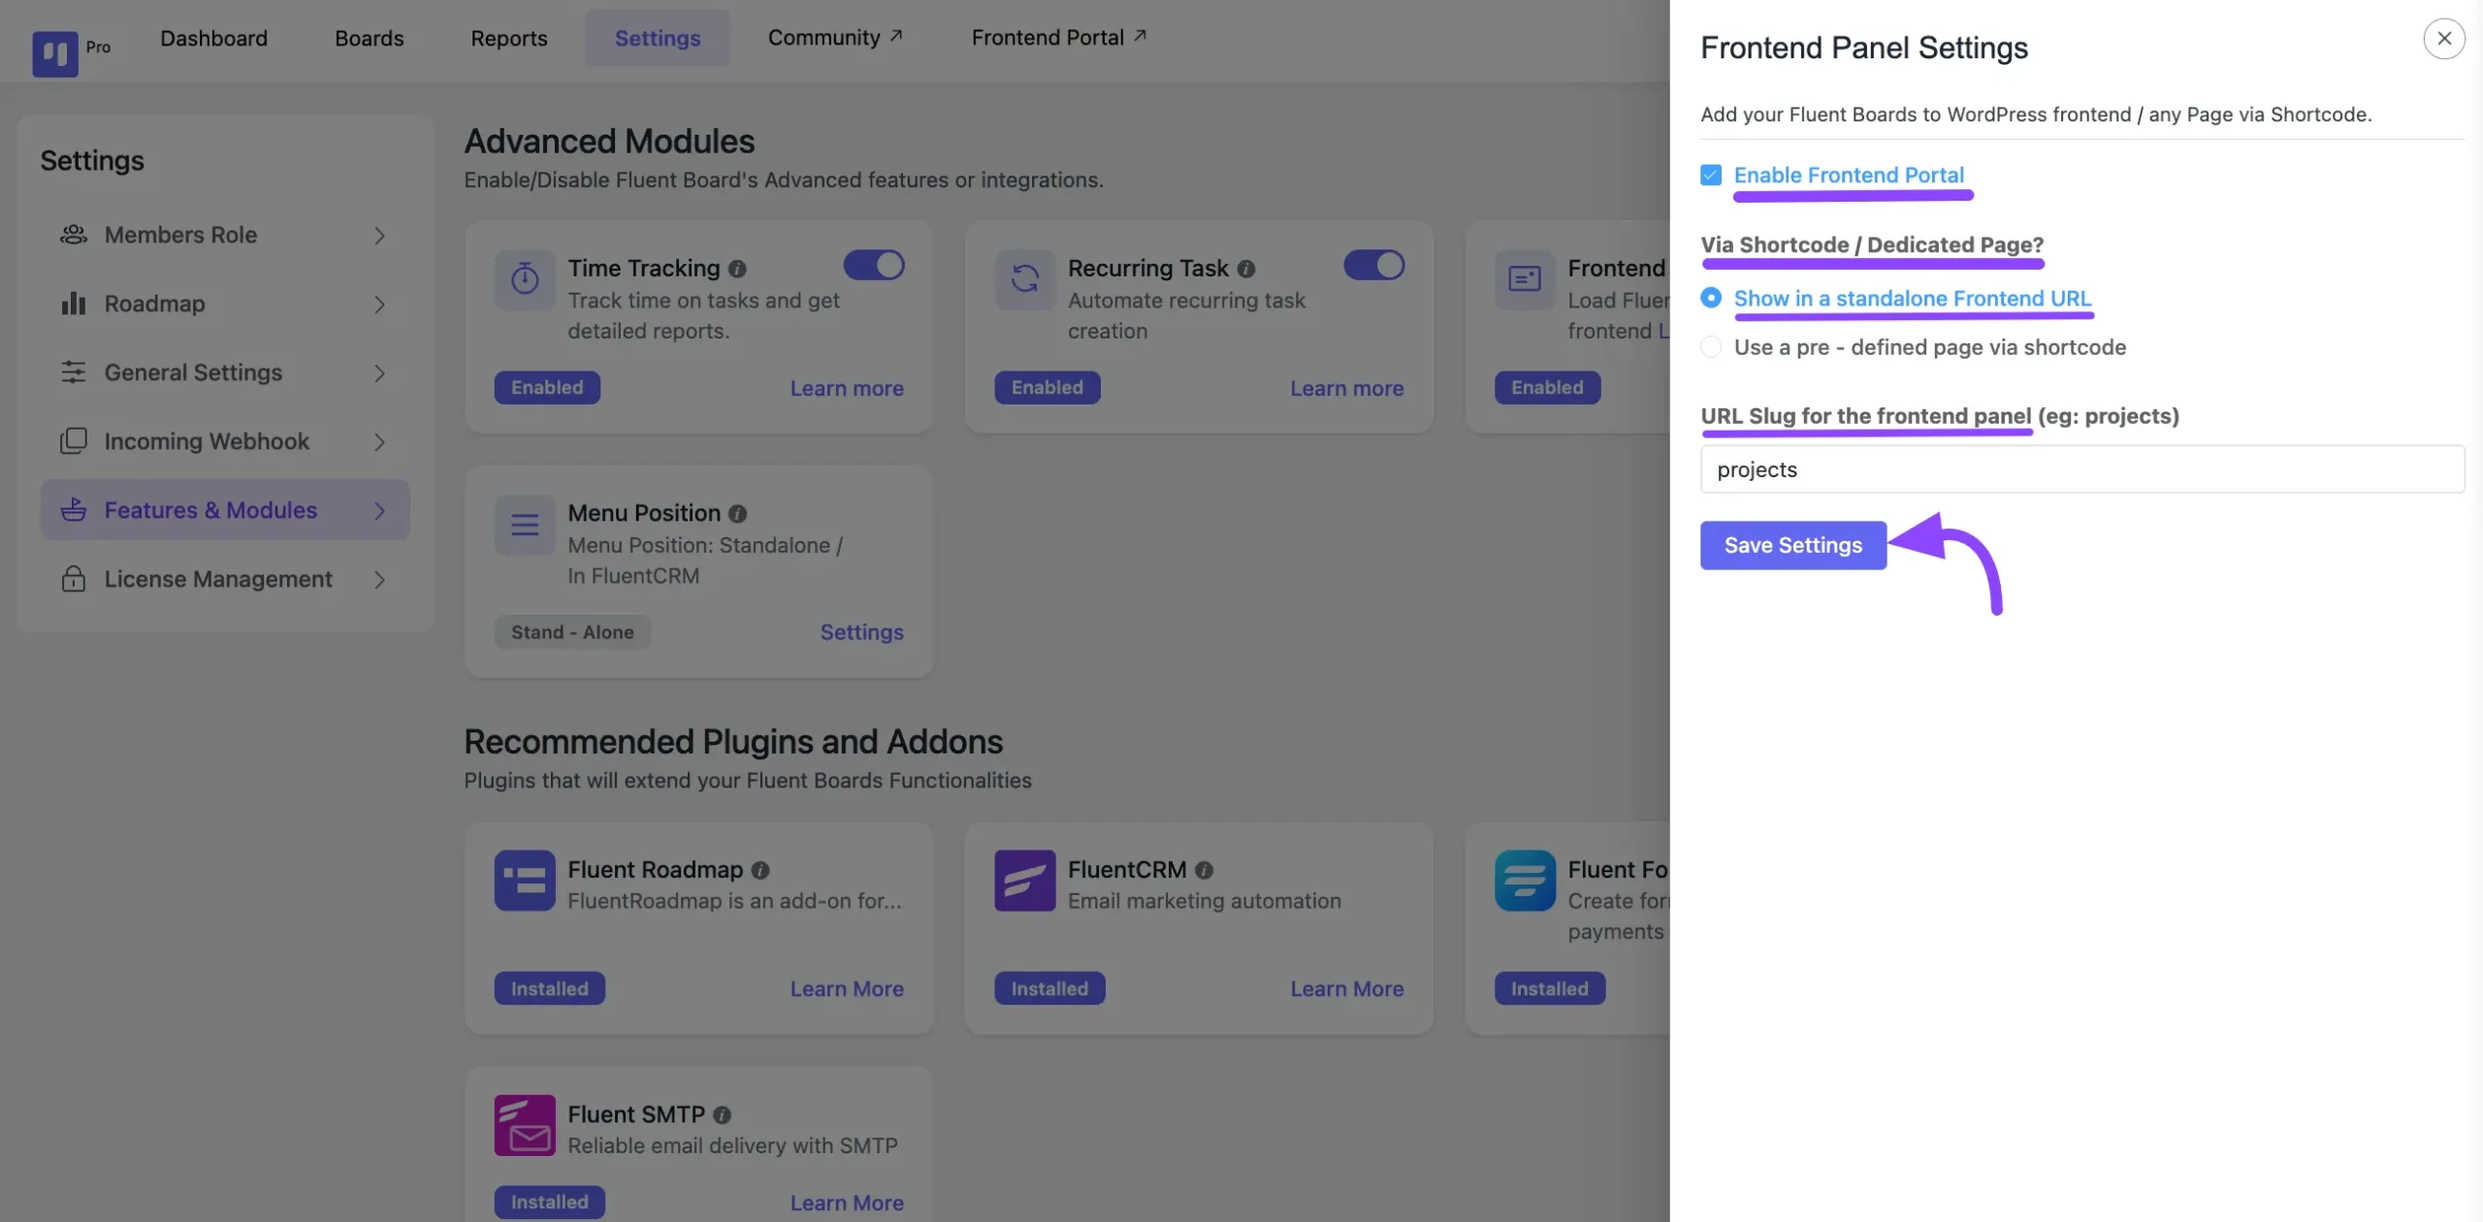
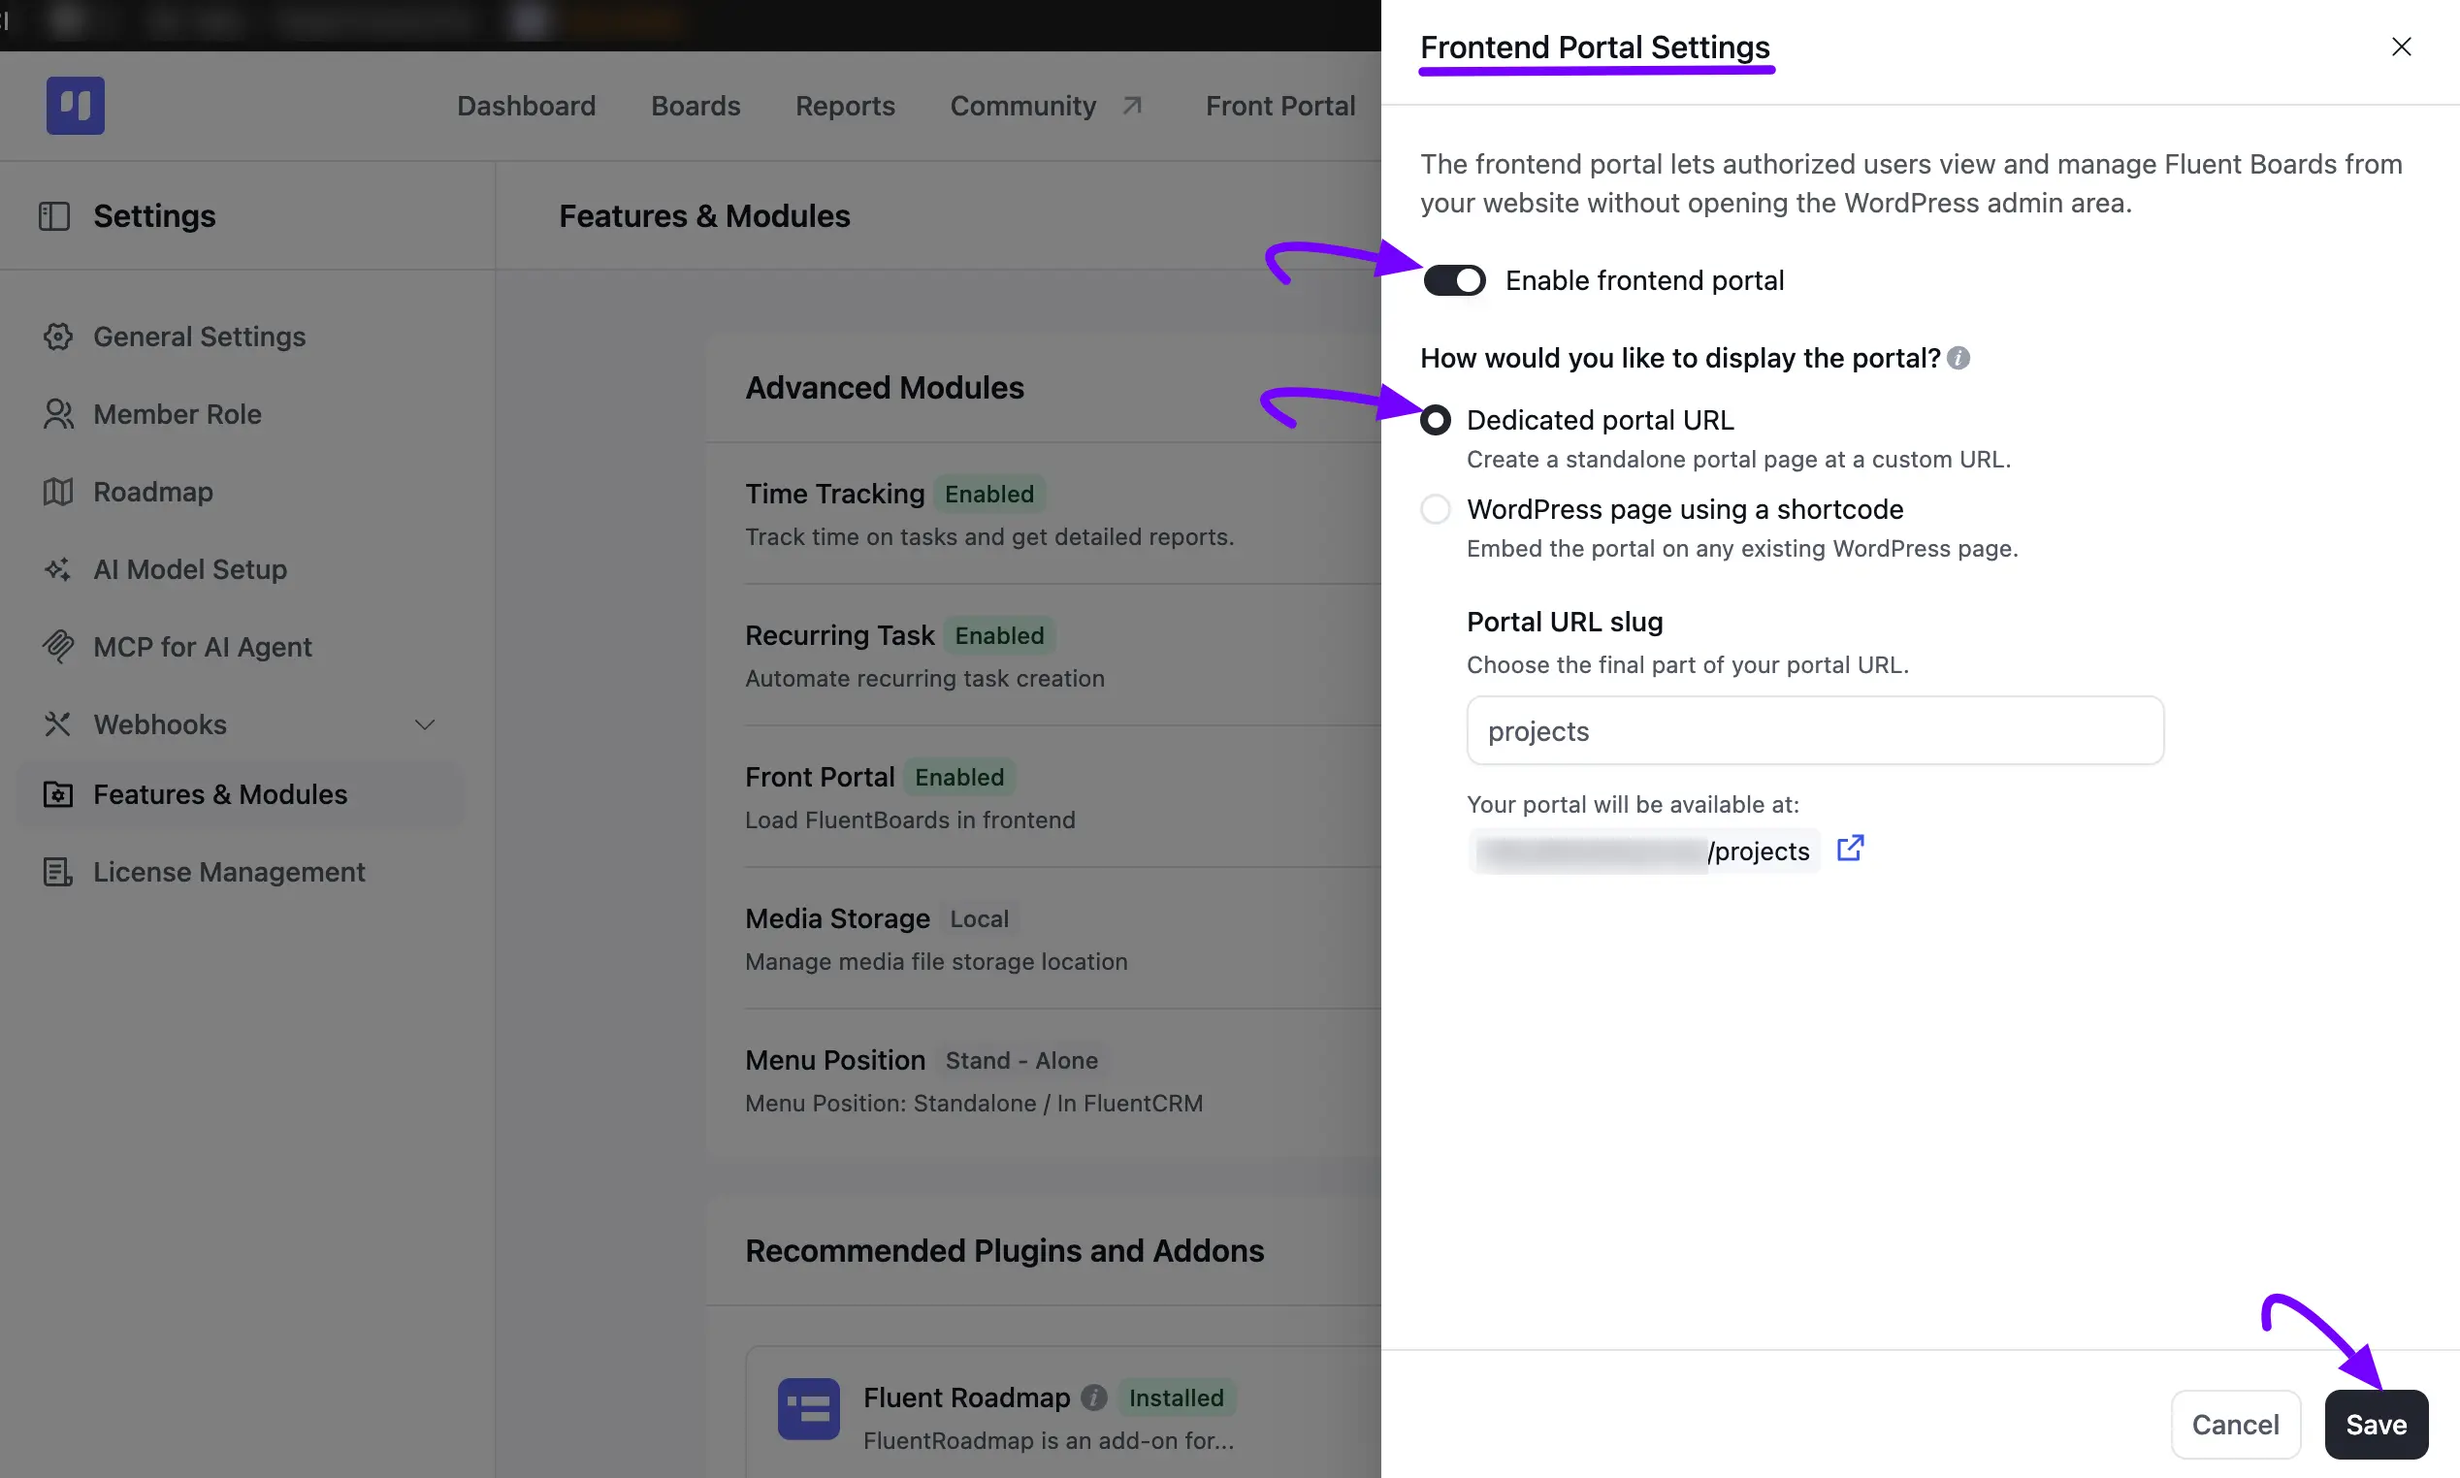
update Frontend Portal doc

diff --git a/docs/settings/frontend-portal-settings.md b/docs/settings/frontend-portal-settings.md
@@ -4,21 +4,19 @@ With FluentBoards, you can establish a frontend portal. This feature enables you
 
 ### Enable Frontend Portal
 
-Go to the FluentBoards **Settings** and choose **Feature and Modules** from the left sidebar. Within this section, locate the option for the **Frontend Portal**. Click on the **Settings** button next to the Frontend Portal option.
+Go to the FluentBoards **Settings** and choose **Features & Modules** from the left sidebar. Under **Advanced Modules**, locate **Front Portal** and turn on its **Toggle**, then click the **Manage** button next to it.
 
 ![enable frontend portal](../public/images/settings/frontend-portal-settings/enable-frontend-portal-scaled.webp)
 
 ### Frontend Portal Setup
 
-A pop-up will appear. Now, check the **Enable Frontend Portal** checkbox.
+A **Frontend Portal Settings** pop-up will appear. Turn on the **Enable frontend portal** toggle, then choose how you'd like to display the portal under **How would you like to display the portal?**
 
-Next, under **"Via Shortcode / Dedicated Page?"**, choose how you want to display the portal on your site.
-
-If you select **Show in a standalone Frontend URL**, enter a **URL Slug** for your portal. It will be the custom link visitors use to access the portal. After entering the slug, click the **Save Settings** button.
+If you select **Dedicated portal URL**, enter a **Portal URL Slug** this becomes the final part of your portal's custom link. You'll see a preview of the full URL right below it. Once you're done, click the **Save** button.
 
 ![frontend url](../public/images/settings/frontend-portal-settings/Frontend-URL-scaled.webp)
 
-If you prefer an existing page, select **Use a pre-defined page via shortcode** from the dropdown option. Then, choose the page you want and add the shortcode **[fluent_boards]**. Once you've done this, click the **Save Settings** button.
+If you prefer an existing page, select **WordPress page using a shortcode** instead. Choose the page from the **Select a WordPress page** dropdown, then copy the **[fluent_boards]** shortcode and add it to that page. Once you've done this, click the **Save** button.
 
 ![via shortcode](../public/images/settings/frontend-portal-settings/Via-Shortcode-scaled.webp)
 
@@ -34,4 +32,4 @@ You'll see a login page on your website where your board members need to log in 
 
 ![portal login](../public/images/settings/frontend-portal-settings/Portal-login.webp)
 
-That's the process for enabling the Frontend portal for your FluentBoards. If you have any further questions, feel free to [contact us](https://wpmanageninja.com/support-tickets/?utm_source=wpmn&utm_medium=home&utm_campaign=site#/){:target="_blank"}.
+That's the process for enabling the Frontend portal for your FluentBoards.
